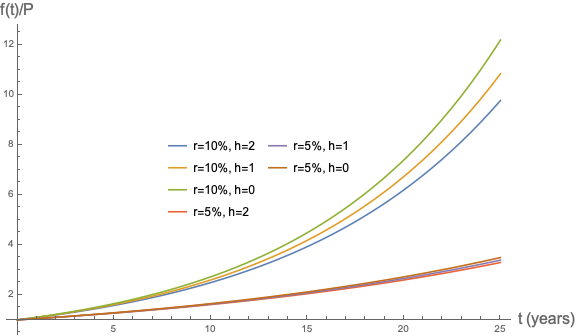
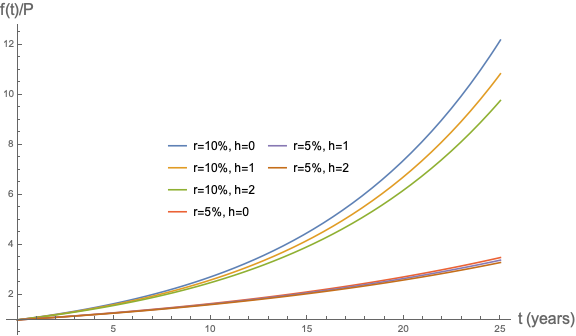
small updates

diff --git a/pages/computerscience/media/flappybird.js b/pages/computerscience/media/flappybird.js
@@ -204,6 +204,6 @@ function play(screen) {
 
 window.onload = function() {
     // screen = [700, 500];
-    screen = [window.innerWidth/2, window.innerHeight/1.5];
+    screen = [Math.min(900, .9*window.innerWidth), Math.min(700, window.innerHeight*.9)];
     play(screen);
 }

diff --git a/pages/math/in-defense-of-symbols.md b/pages/math/in-defense-of-symbols.md
@@ -5,9 +5,7 @@ comments: 16
 
 {% include post-header.md %}
 
-(02 Apr 2021) People who do not do math, physics, chemistry, etc. for a living very often ask me why my work never has any numbers. They ask what I'm doing, I say "math", they say "that doesn't look like math, I don't see any numbers..what are all those symbols?", and I say "why would I ever use numbers when I can just use a symbol?". In this post, I will attempt to better illistrate why one rarely need bother with numbers, and why symbols are part of what makes math so powerful, clear, and precise. I will show an incredibly simple problem where solving it requires essentially no numbers and results in a multitude of symbols popping up. Of course, the need for symbols only greater as the problems get significantly more challenging.
-
-One quick caveat. Most of my posts on this site are intended for a math or physics audience. More accurately, I don't expect anyone to ever read them, so they are just meant for my benefit. I write down interesting things that I have learned so that I will remember them and can have a reference for them in the future. But this post will be geared toward an audience with little to no math background, or those who have not practiced it in a while. After all, it is their question that I am attempting to answer.
+(02 Apr 2021) People who do not do math, physics, chemistry, etc. for a living very often ask me why my work never has any numbers. They ask what I'm doing, I say "math", they say "that doesn't look like math, I don't see any numbers..what are all those symbols?", and I say "why would I ever use numbers when I can just use a symbol?". In this post, I will attempt to better illustrate why one rarely need bother with numbers, and why symbols are part of what makes math so powerful, clear, and precise. I will show an incredibly simple problem where solving it requires essentially no numbers and results in a multitude of symbols popping up. Of course, the need for symbols only increases as the problems get significantly more challenging.
 
 
 ### Compounding interest
@@ -16,9 +14,9 @@ Suppose that you put your money in a bank account that offers an annual interest
 
 Suppose that the interest is compounded every $$h$$ years. For example, if the interest is compounded annually, then $$h=1$$. If the interest is compounded monthly, then $$h=1/12$$ (i.e. every one-twelth of a year). If the interest is compounded daily, then $$h=1/365$$.
 
-Finally, suppose that we have a function $$f(t)$$ that tells use how much money is in the account after $$t$$ years. For example, $$f(0)$$ is how much money you put into the account, $$f(1/2)$$ is how much money is in the account after six months, and $$f(2)$$ is how much money is in the account after two years. Again, we have introduced another symbol; this time, though, it is encoding a lot more than just a number like $$r$$ and $$h$$ are encoding. $$f(t)$$ is a function, meaning that you can plug in any value of $$t\geq 0$$ (i.e. nonnegative $$t$$), and it will tell you how much money is the account after that many years.
+Finally, suppose that we have a function $$f(t)$$ that tells you how much money is in the account after $$t$$ years. For example, $$f(0)$$ is how much money you put into the account, $$f(1/2)$$ is how much money is in the account after six months, and $$f(2)$$ is how much money is in the account after two years. Again, we have introduced another symbol; this time, though, it is encoding a lot more than just a number like $$r$$ and $$h$$ are encoding. $$f(t)$$ is a function, meaning that you can plug in any value of $$t\geq 0$$ (i.e. nonnegative $$t$$), and it will tell you how much money is the account after that many years.
 
-Suppose that you have 10 dollars in your account. When the interest is compounded, the bank will add $$10 \times h\times r$$ dollars to your account (this is precisely the definition of an interest rate $$r$$ coumpounded every $$h$$ years). So in total you will have $$10 + 10 \times h\times r = 10\times (1+h\times r)$$ dollars in your account. The $$\times$$ symbol gets a bit cumbersome and makes everything look messy. So I will simply drop it. When you see something like $$10(1+hr)$$ just remember that it means $$10 \times (1+h\times r)$$. This is in fact another benefit of using symbols is place of numbers - you don't have to carry around the messy $$\times$$ symbol.
+Suppose that you have 10 dollars in your account. When the interest is compounded, the bank will add $$10 \times h\times r$$ dollars to your account (this is precisely the definition of an interest rate $$r$$ coumpounded every $$h$$ years). So in total you will have $$10 + 10 \times h\times r = 10\times (1+h\times r)$$ dollars in your account. Recall that to clean up notation, we drop the $$\times$$ symbol whenever possible. So I will write $$10(1+hr)$$ to mean $$10 \times (1+h\times r)$$. This is in fact another benefit of using symbols is place of numbers - you don't have to carry around the messy $$\times$$ symbol.
 
 Generalizing the previous statement, we can say the following. Suppose after $$t$$ years, you have $$f(t)$$ dollars in your account. Then when the interest is compounded, the bank will add $$f(t)hr$$ dollars to your account, and so you will have $$(1+hr)f(t)$$. The interest is compounded once every $$h$$ years. Therefore, if at time $$t$$ you have $$f(t)$$ dollars, then at time $$t+h$$ you will have $$f(t)(1+hr)$$. In other words, we have the important equation
 
@@ -115,7 +113,7 @@ Now let's compare what happens to the money in your bank account as a function o
 
 <img src="media/interest-plot.png" alt="interest plots" style="max-width: 100%;" />
 
-We are plotting $$f(t) / P$$, where recall that $$P = f(0)$$, the initial amount of money that you put into the account. From the green line, we can see that with an interest rate of 10% and compounding continuously ($$h = 0$$), after 25 years your $$P$$ dollars will become $$\approx 12P$$ dollars. This is much better than the 5% interest rate.
+We are plotting $$f(t) / P$$, where recall that $$P = f(0)$$, the initial amount of money that you put into the account. From the blue line, we can see that with an interest rate of 10% and compounding continuously ($$h = 0$$), after 25 years your $$P$$ dollars will become $$\approx 12P$$ dollars. This is much better than the 5% interest rate.
 
 The lines on this plot follow an *exponential growth*. Exponential growth occurs whenever the *change* in some quanity is proportional to the quantity itself. In this case, the amount of money that is added to your account (i.e. the change of your account balance) is proportional to the current balance in your account.
 

diff --git a/_includes/post-header.md b/_includes/post-header.md
@@ -3,8 +3,11 @@
 {% include mathjax.html %}
 
 <style>
-  p, ul, ol, blockquote {text-align: justify;}
   a {font-weight: 300;}
+  p, ul, ol, blockquote {text-align: justify;}
+  @media (max-width: 800px) { /* for small screens, don't justify */
+  	p, ul, ol, blockquote {text-align: left;}
+  }
 </style>
 
 <a href="/" style="font-size: 16px; font-style: italic;">Back to home page</a>
